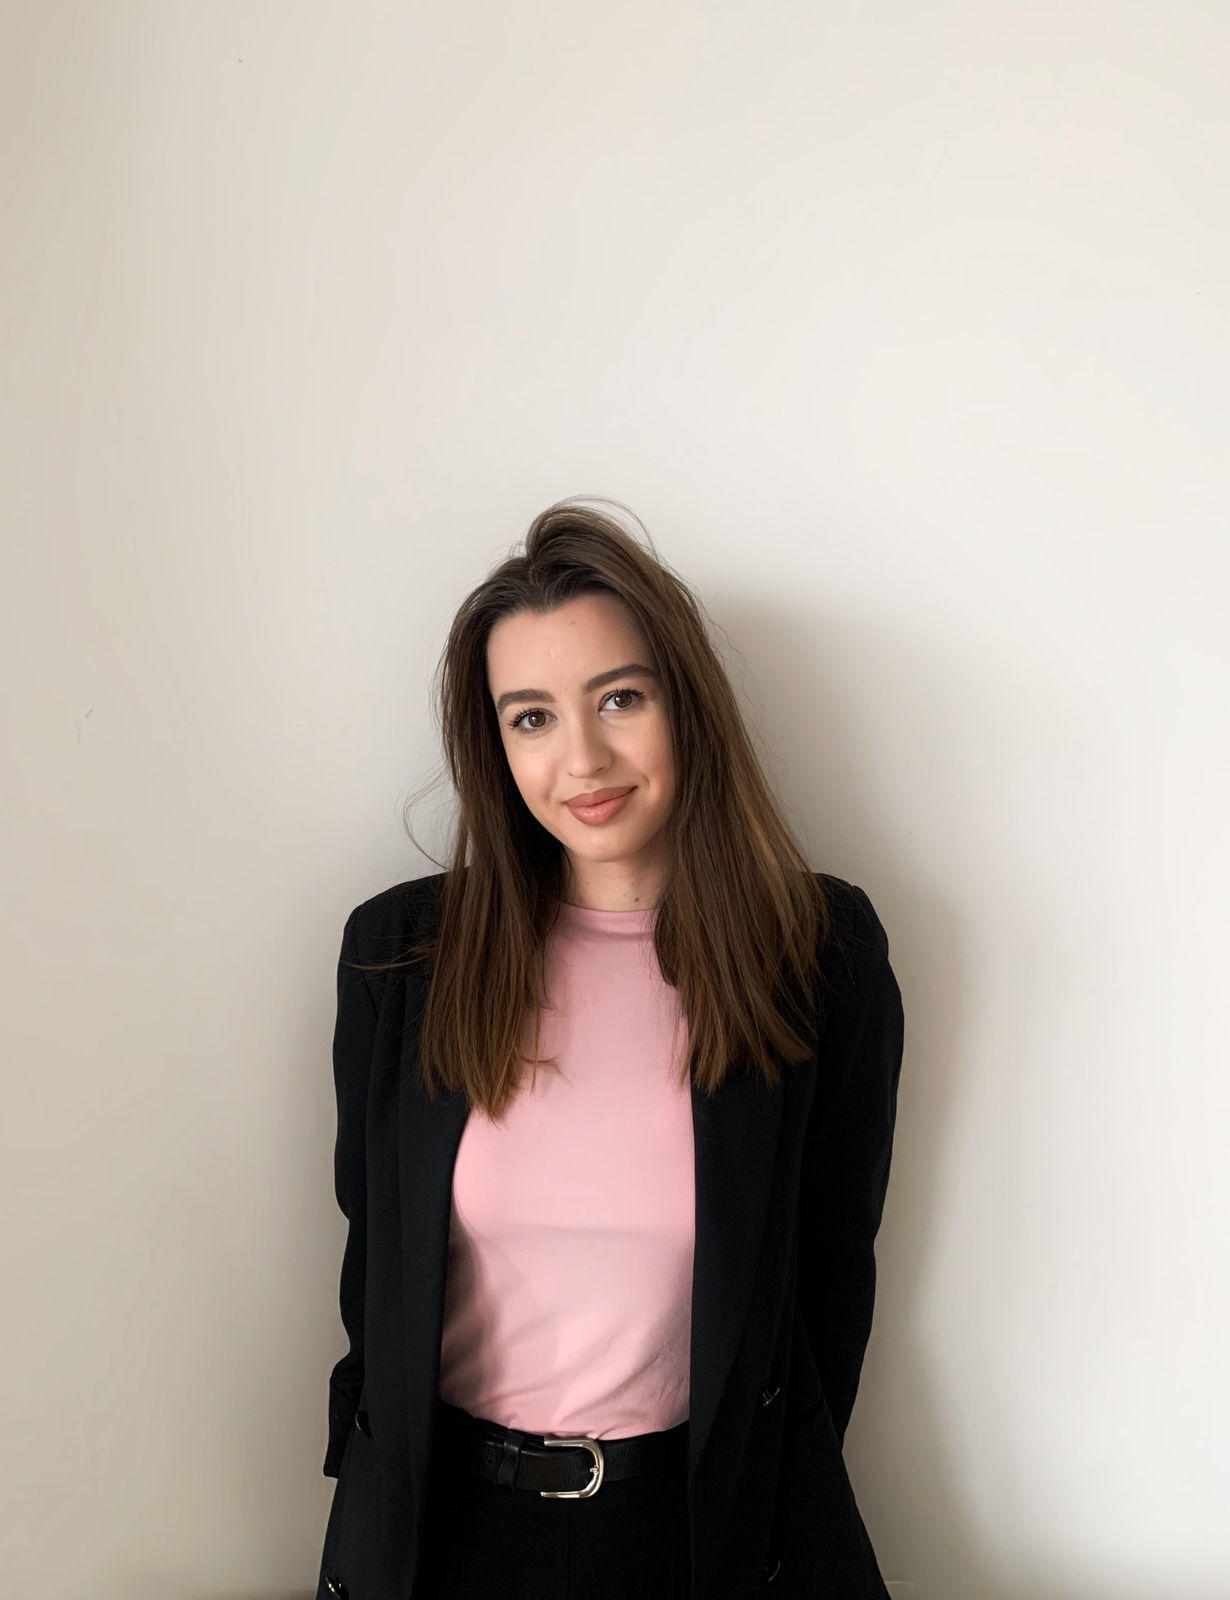
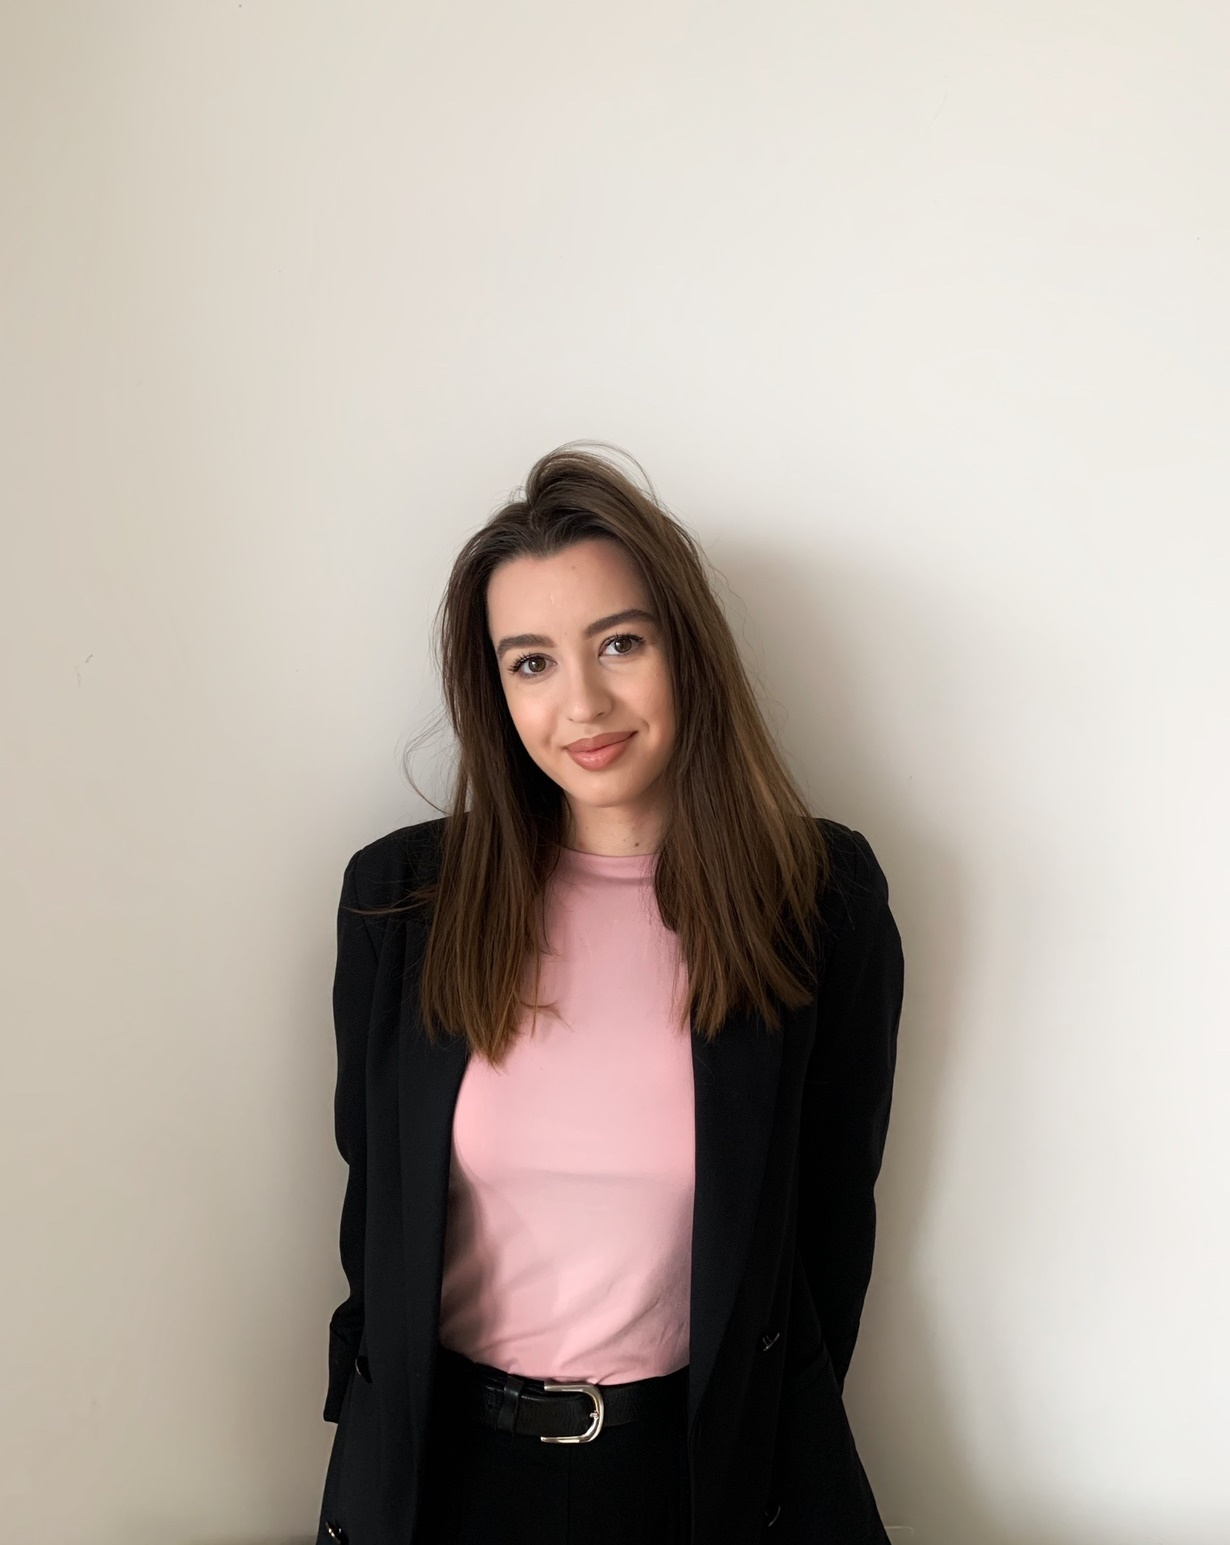
up p

diff --git a/html/index.html b/html/index.html
@@ -103,12 +103,8 @@
 					</div>
 					<div class="social">
 						<ul>
-							<li><a href="#"><img class="svg" src="img/svg/social/facebook.svg" alt="" /></a></li>
-							<li><a href="#"><img class="svg" src="img/svg/social/twitter.svg" alt="" /></a></li>
-							<li><a href="#"><img class="svg" src="img/svg/social/instagram.svg" alt="" /></a></li>
-							<li><a href="#"><img class="svg" src="img/svg/social/dribbble.svg" alt="" /></a></li>
-							<li><a href="#"><img class="svg" src="img/svg/social/tik-tok.svg" alt="" /></a></li>
-						</ul>
+							<li><a href="https://www.facebook.com/cecci95/"><img class="svg" src="img/svg/social/facebook.svg" alt="" /></a></li>
+							<li><a href="https://www.linkedin.com/in/ceca-vasileva-a10418202/"><img class="svg" src="img/svg/social/icons8-linkedin (1).svg" alt="" /></a></li>
 					</div>
 					<div class="copyright">
 						<p>Copyright &copy; 2021</p>
@@ -165,7 +161,7 @@
 								</div>
 								<div class="wrapper">
 									<div class="left">
-										<p>Hello! My name is <strong>Ceca Vasileva.</strong> I am a Junior Web Developer, and I'm very excited to continue learning and master web development.</p>
+										<p>Hello! My name is <strong>Ceca Vasileva.</strong> I am a Junior Web Developer, and I'm very excited to improve and sharpen my web development skills.</p>
 										<p>I have a positive attitude and aim towards personal growth every day. The excess of creativity and ambition is what drives me in everything I do. </p>
 									</div>
 									<div class="right">

diff --git a/html/js/init.js b/html/js/init.js
@@ -424,6 +424,8 @@ function cavani_tm_data_images(){
 	});
 }
 
+
+
 // -----------------------------------------------------
 // ----------------    CONTACT FORM    -----------------
 // -----------------------------------------------------

diff --git a/html/css/style.css b/html/css/style.css
@@ -493,6 +493,10 @@ h6 { font-size: 16px; }
 	background-size: cover;
 	background-position: center;
 }
+
+#ripple{
+	background-image: url('../images/me.jpg');
+}
 .cavani_tm_mainpart .main_content{
 	position: absolute;
 	top: 0px;
